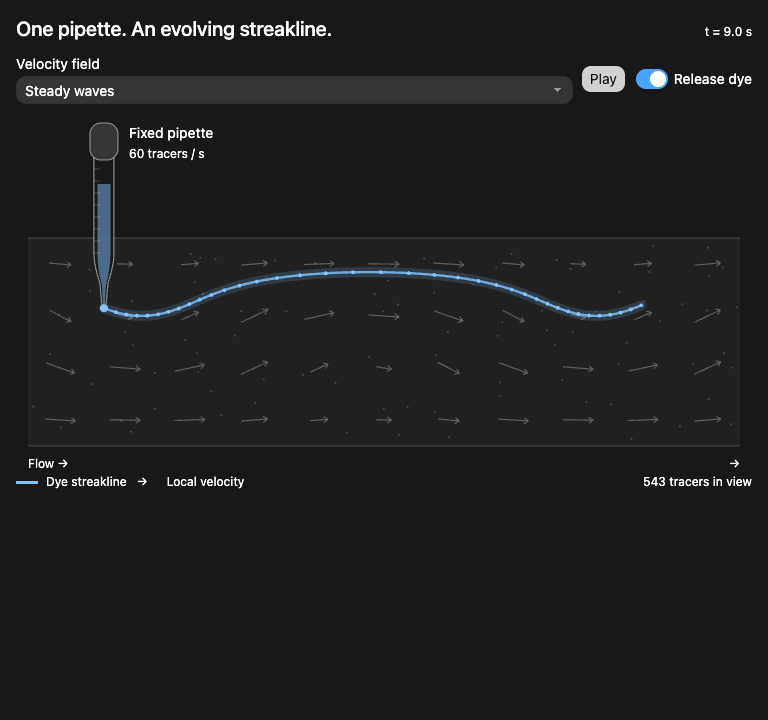
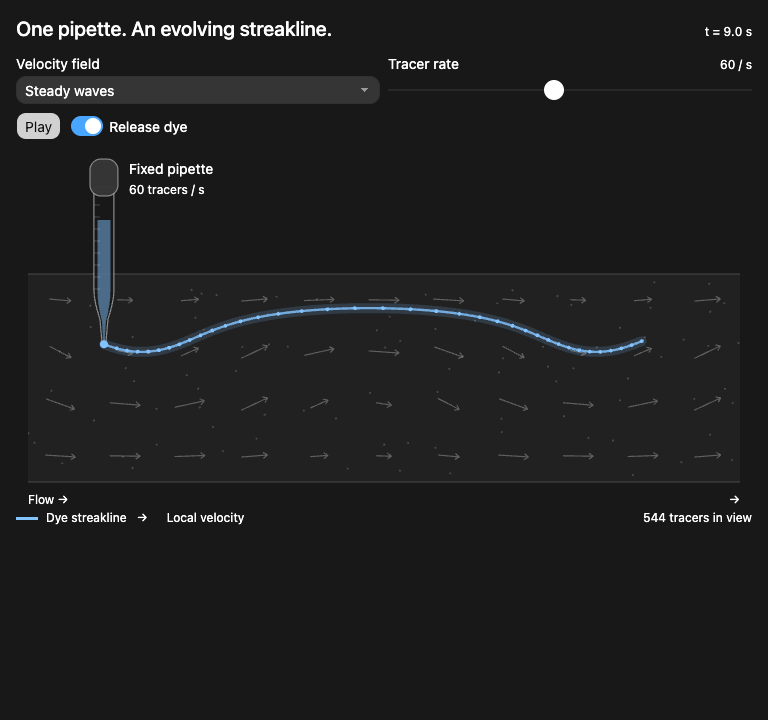
Add tracer release rate slider control

diff --git a/dist/index.html b/dist/index.html
@@ -1339,6 +1339,10 @@ html&gt;body{padding:0}&lt;/style&gt;
         &lt;option value=&quot;uniform&quot;&gt;Uniform flow&lt;/option&gt;
       &lt;/select&gt;
     &lt;/label&gt;
+    &lt;label class=&quot;form-label&quot; for=&quot;sl-rate&quot;&gt;Tracer rate
+      &lt;span class=&quot;text-small tabular-nums&quot; id=&quot;sl-rate-val&quot;&gt;60 / s&lt;/span&gt;
+      &lt;input class=&quot;form-range&quot; type=&quot;range&quot; id=&quot;sl-rate&quot; min=&quot;10&quot; max=&quot;120&quot; step=&quot;5&quot; value=&quot;60&quot;&gt;
+    &lt;/label&gt;
     &lt;div class=&quot;viz-row&quot;&gt;
       &lt;button type=&quot;button&quot; class=&quot;btn btn-primary&quot; id=&quot;sl-pause&quot;&gt;Pause&lt;/button&gt;
       &lt;label class=&quot;form-check form-switch&quot;&gt;
@@ -1349,7 +1353,7 @@ html&gt;body{padding:0}&lt;/style&gt;
   &lt;/div&gt;
   &lt;svg class=&quot;sl-scene&quot; id=&quot;sl-scene&quot; role=&quot;img&quot; aria-labelledby=&quot;sl-title sl-description&quot;&gt;
     &lt;title id=&quot;sl-title&quot;&gt;Dye released from a fixed pipette into a flowing channel&lt;/title&gt;
-    &lt;desc id=&quot;sl-description&quot;&gt;The pipette releases sixty passive tracers per simulated second. The colored streak joins their current positions, while arrows indicate the local velocity. The entire streak changes shape in the unsteady flow. The dye has no diffusion and does not affect the prescribed flow.&lt;/desc&gt;
+    &lt;desc id=&quot;sl-description&quot;&gt;The pipette releases passive tracers into the channel at an adjustable rate. The colored streak joins their current positions, while arrows indicate the local velocity. The entire streak changes shape in the unsteady flow. The dye has no diffusion and does not affect the prescribed flow.&lt;/desc&gt;
     &lt;defs&gt;
       &lt;clipPath id=&quot;sl-water-clip&quot;&gt;&lt;rect id=&quot;sl-clip-box&quot;&gt;&lt;/rect&gt;&lt;/clipPath&gt;
     &lt;/defs&gt;
@@ -1417,12 +1421,14 @@ html&gt;body{padding:0}&lt;/style&gt;
   const flow = el(&#x27;sl-flow&#x27;);
   const pause = el(&#x27;sl-pause&#x27;);
   const release = el(&#x27;sl-dye&#x27;);
+  const rate = el(&#x27;sl-rate&#x27;);
+  const rateVal = el(&#x27;sl-rate-val&#x27;);
   const reducedMotion = window.matchMedia(&#x27;(prefers-reduced-motion: reduce)&#x27;);
-  const state = { mode: &#x27;unsteady&#x27;, paused: reducedMotion.matches, injecting: true };
+  const state = { mode: &#x27;unsteady&#x27;, paused: reducedMotion.matches, injecting: true, rate: 60 };
   const L = 12, H = 4, U = 1.25, B = .96, K = .82, OMEGA = 1.1;
   const SOURCE = { x: 1.28, y: 2.65 };
   const DT = 1 / 120;
-  let ticks = 0, particles = [], motes = [], run = 0, released = 0;
+  let ticks = 0, particles = [], motes = [], run = 0, released = 0, injectAccumulator = 0.5;
   let width = 736, height = 370, top = 134, bottom = 342;
   let last = null, accumulated = 0, uiClock = -1;
   const settingsFrom = value =&gt; value?.modelContent?.streakline || value?.streakline;
@@ -1432,11 +1438,13 @@ html&gt;body{padding:0}&lt;/style&gt;
     if ([&#x27;unsteady&#x27;, &#x27;steady&#x27;, &#x27;uniform&#x27;].includes(saved.mode)) state.mode = saved.mode;
     if (typeof saved.paused === &#x27;boolean&#x27;) state.paused = saved.paused;
     if (typeof saved.injecting === &#x27;boolean&#x27;) state.injecting = saved.injecting;
+    const r = Number(saved.rate ?? saved.releaseRate);
+    if (Number.isFinite(r) &amp;&amp; r &gt;= 10 &amp;&amp; r &lt;= 120) state.rate = r;
   }
   applySettings(window.openai?.widgetState);
   function save() {
     if (window.openai?.setWidgetState) {
-      window.openai.setWidgetState({ modelContent: { streakline: { ...state, releaseRate: 60 } }, privateContent: null }).catch(() =&gt; {});
+      window.openai.setWidgetState({ modelContent: { streakline: { ...state, releaseRate: state.rate } }, privateContent: null }).catch(() =&gt; {});
     }
   }
   function velocity(x, y, t) {
@@ -1459,6 +1467,7 @@ html&gt;body{padding:0}&lt;/style&gt;
   }
   function initialize() {
     ticks = 0; particles = []; accumulated = 0; last = null; uiClock = -1; run = 0; released = 0;
+    injectAccumulator = 1 - state.rate * DT;
     motes = Array.from({ length: 90 }, (_, i) =&gt; ({
       x: ((i * .61803398875) % 1) * L,
       y: .12 + ((i * .41421356237 + .21) % 1) * (H - .24)
@@ -1466,9 +1475,12 @@ html&gt;body{padding:0}&lt;/style&gt;
   }
   function step() {
     const t = ticks * DT;
-    // One new tracer every two physics steps: exactly 60 per simulated second.
-    if (state.injecting &amp;&amp; ticks % 2 === 0) {
-      particles.push({ ...SOURCE, born: t, run, id: released++ });
+    if (state.injecting) {
+      injectAccumulator += state.rate * DT;
+      while (injectAccumulator &gt;= 1) {
+        injectAccumulator -= 1;
+        particles.push({ ...SOURCE, born: t, run, id: released++ });
+      }
     }
     for (const p of particles) advect(p, t, DT);
     particles = particles.filter(p =&gt; p.x &lt;= L + .2 &amp;&amp; p.y &gt;= 0 &amp;&amp; p.y &lt;= H);
@@ -1542,10 +1554,20 @@ html&gt;body{padding:0}&lt;/style&gt;
     pause.textContent = state.paused ? &#x27;Play&#x27; : &#x27;Pause&#x27;;
     pause.setAttribute(&#x27;aria-label&#x27;, state.paused ? &#x27;Play flow simulation&#x27; : &#x27;Pause flow simulation&#x27;);
     release.checked = state.injecting;
-    el(&#x27;sl-rate-label&#x27;).textContent = state.injecting ? &#x27;60 tracers / s&#x27; : &#x27;Dye off&#x27;;
+    rate.value = state.rate;
+    rateVal.textContent = `${state.rate} / s`;
+    el(&#x27;sl-rate-label&#x27;).textContent = state.injecting ? `${state.rate} tracers / s` : &#x27;Dye off&#x27;;
     el(&#x27;sl-source&#x27;).style.opacity = state.injecting ? &#x27;1&#x27; : &#x27;.3&#x27;;
   }
   const announce = text =&gt; { el(&#x27;sl-announcement&#x27;).textContent = text; };
+  rate.addEventListener(&#x27;input&#x27;, () =&gt; {
+    state.rate = Number(rate.value);
+    syncControls();
+    save();
+  });
+  rate.addEventListener(&#x27;change&#x27;, () =&gt; {
+    announce(`Tracer rate set to ${state.rate} tracers per second.`);
+  });
   pause.addEventListener(&#x27;click&#x27;, () =&gt; {
     state.paused = !state.paused; last = null; syncControls(); save();
     announce(state.paused ? `Paused at ${(ticks * DT).toFixed(1)} seconds.` : &#x27;Simulation playing.&#x27;);

diff --git a/outputs/streakline-demo.html b/outputs/streakline-demo.html
@@ -1339,6 +1339,10 @@ html&gt;body{padding:0}&lt;/style&gt;
         &lt;option value=&quot;uniform&quot;&gt;Uniform flow&lt;/option&gt;
       &lt;/select&gt;
     &lt;/label&gt;
+    &lt;label class=&quot;form-label&quot; for=&quot;sl-rate&quot;&gt;Tracer rate
+      &lt;span class=&quot;text-small tabular-nums&quot; id=&quot;sl-rate-val&quot;&gt;60 / s&lt;/span&gt;
+      &lt;input class=&quot;form-range&quot; type=&quot;range&quot; id=&quot;sl-rate&quot; min=&quot;10&quot; max=&quot;120&quot; step=&quot;5&quot; value=&quot;60&quot;&gt;
+    &lt;/label&gt;
     &lt;div class=&quot;viz-row&quot;&gt;
       &lt;button type=&quot;button&quot; class=&quot;btn btn-primary&quot; id=&quot;sl-pause&quot;&gt;Pause&lt;/button&gt;
       &lt;label class=&quot;form-check form-switch&quot;&gt;
@@ -1349,7 +1353,7 @@ html&gt;body{padding:0}&lt;/style&gt;
   &lt;/div&gt;
   &lt;svg class=&quot;sl-scene&quot; id=&quot;sl-scene&quot; role=&quot;img&quot; aria-labelledby=&quot;sl-title sl-description&quot;&gt;
     &lt;title id=&quot;sl-title&quot;&gt;Dye released from a fixed pipette into a flowing channel&lt;/title&gt;
-    &lt;desc id=&quot;sl-description&quot;&gt;The pipette releases sixty passive tracers per simulated second. The colored streak joins their current positions, while arrows indicate the local velocity. The entire streak changes shape in the unsteady flow. The dye has no diffusion and does not affect the prescribed flow.&lt;/desc&gt;
+    &lt;desc id=&quot;sl-description&quot;&gt;The pipette releases passive tracers into the channel at an adjustable rate. The colored streak joins their current positions, while arrows indicate the local velocity. The entire streak changes shape in the unsteady flow. The dye has no diffusion and does not affect the prescribed flow.&lt;/desc&gt;
     &lt;defs&gt;
       &lt;clipPath id=&quot;sl-water-clip&quot;&gt;&lt;rect id=&quot;sl-clip-box&quot;&gt;&lt;/rect&gt;&lt;/clipPath&gt;
     &lt;/defs&gt;
@@ -1417,12 +1421,14 @@ html&gt;body{padding:0}&lt;/style&gt;
   const flow = el(&#x27;sl-flow&#x27;);
   const pause = el(&#x27;sl-pause&#x27;);
   const release = el(&#x27;sl-dye&#x27;);
+  const rate = el(&#x27;sl-rate&#x27;);
+  const rateVal = el(&#x27;sl-rate-val&#x27;);
   const reducedMotion = window.matchMedia(&#x27;(prefers-reduced-motion: reduce)&#x27;);
-  const state = { mode: &#x27;unsteady&#x27;, paused: reducedMotion.matches, injecting: true };
+  const state = { mode: &#x27;unsteady&#x27;, paused: reducedMotion.matches, injecting: true, rate: 60 };
   const L = 12, H = 4, U = 1.25, B = .96, K = .82, OMEGA = 1.1;
   const SOURCE = { x: 1.28, y: 2.65 };
   const DT = 1 / 120;
-  let ticks = 0, particles = [], motes = [], run = 0, released = 0;
+  let ticks = 0, particles = [], motes = [], run = 0, released = 0, injectAccumulator = 0.5;
   let width = 736, height = 370, top = 134, bottom = 342;
   let last = null, accumulated = 0, uiClock = -1;
   const settingsFrom = value =&gt; value?.modelContent?.streakline || value?.streakline;
@@ -1432,11 +1438,13 @@ html&gt;body{padding:0}&lt;/style&gt;
     if ([&#x27;unsteady&#x27;, &#x27;steady&#x27;, &#x27;uniform&#x27;].includes(saved.mode)) state.mode = saved.mode;
     if (typeof saved.paused === &#x27;boolean&#x27;) state.paused = saved.paused;
     if (typeof saved.injecting === &#x27;boolean&#x27;) state.injecting = saved.injecting;
+    const r = Number(saved.rate ?? saved.releaseRate);
+    if (Number.isFinite(r) &amp;&amp; r &gt;= 10 &amp;&amp; r &lt;= 120) state.rate = r;
   }
   applySettings(window.openai?.widgetState);
   function save() {
     if (window.openai?.setWidgetState) {
-      window.openai.setWidgetState({ modelContent: { streakline: { ...state, releaseRate: 60 } }, privateContent: null }).catch(() =&gt; {});
+      window.openai.setWidgetState({ modelContent: { streakline: { ...state, releaseRate: state.rate } }, privateContent: null }).catch(() =&gt; {});
     }
   }
   function velocity(x, y, t) {
@@ -1459,6 +1467,7 @@ html&gt;body{padding:0}&lt;/style&gt;
   }
   function initialize() {
     ticks = 0; particles = []; accumulated = 0; last = null; uiClock = -1; run = 0; released = 0;
+    injectAccumulator = 1 - state.rate * DT;
     motes = Array.from({ length: 90 }, (_, i) =&gt; ({
       x: ((i * .61803398875) % 1) * L,
       y: .12 + ((i * .41421356237 + .21) % 1) * (H - .24)
@@ -1466,9 +1475,12 @@ html&gt;body{padding:0}&lt;/style&gt;
   }
   function step() {
     const t = ticks * DT;
-    // One new tracer every two physics steps: exactly 60 per simulated second.
-    if (state.injecting &amp;&amp; ticks % 2 === 0) {
-      particles.push({ ...SOURCE, born: t, run, id: released++ });
+    if (state.injecting) {
+      injectAccumulator += state.rate * DT;
+      while (injectAccumulator &gt;= 1) {
+        injectAccumulator -= 1;
+        particles.push({ ...SOURCE, born: t, run, id: released++ });
+      }
     }
     for (const p of particles) advect(p, t, DT);
     particles = particles.filter(p =&gt; p.x &lt;= L + .2 &amp;&amp; p.y &gt;= 0 &amp;&amp; p.y &lt;= H);
@@ -1542,10 +1554,20 @@ html&gt;body{padding:0}&lt;/style&gt;
     pause.textContent = state.paused ? &#x27;Play&#x27; : &#x27;Pause&#x27;;
     pause.setAttribute(&#x27;aria-label&#x27;, state.paused ? &#x27;Play flow simulation&#x27; : &#x27;Pause flow simulation&#x27;);
     release.checked = state.injecting;
-    el(&#x27;sl-rate-label&#x27;).textContent = state.injecting ? &#x27;60 tracers / s&#x27; : &#x27;Dye off&#x27;;
+    rate.value = state.rate;
+    rateVal.textContent = `${state.rate} / s`;
+    el(&#x27;sl-rate-label&#x27;).textContent = state.injecting ? `${state.rate} tracers / s` : &#x27;Dye off&#x27;;
     el(&#x27;sl-source&#x27;).style.opacity = state.injecting ? &#x27;1&#x27; : &#x27;.3&#x27;;
   }
   const announce = text =&gt; { el(&#x27;sl-announcement&#x27;).textContent = text; };
+  rate.addEventListener(&#x27;input&#x27;, () =&gt; {
+    state.rate = Number(rate.value);
+    syncControls();
+    save();
+  });
+  rate.addEventListener(&#x27;change&#x27;, () =&gt; {
+    announce(`Tracer rate set to ${state.rate} tracers per second.`);
+  });
   pause.addEventListener(&#x27;click&#x27;, () =&gt; {
     state.paused = !state.paused; last = null; syncControls(); save();
     announce(state.paused ? `Paused at ${(ticks * DT).toFixed(1)} seconds.` : &#x27;Simulation playing.&#x27;);

diff --git a/work/streakline-preview.html b/work/streakline-preview.html
@@ -1339,6 +1339,10 @@ html&gt;body{padding:0}&lt;/style&gt;
         &lt;option value=&quot;uniform&quot;&gt;Uniform flow&lt;/option&gt;
       &lt;/select&gt;
     &lt;/label&gt;
+    &lt;label class=&quot;form-label&quot; for=&quot;sl-rate&quot;&gt;Tracer rate
+      &lt;span class=&quot;text-small tabular-nums&quot; id=&quot;sl-rate-val&quot;&gt;60 / s&lt;/span&gt;
+      &lt;input class=&quot;form-range&quot; type=&quot;range&quot; id=&quot;sl-rate&quot; min=&quot;10&quot; max=&quot;120&quot; step=&quot;5&quot; value=&quot;60&quot;&gt;
+    &lt;/label&gt;
     &lt;div class=&quot;viz-row&quot;&gt;
       &lt;button type=&quot;button&quot; class=&quot;btn btn-primary&quot; id=&quot;sl-pause&quot;&gt;Pause&lt;/button&gt;
       &lt;label class=&quot;form-check form-switch&quot;&gt;
@@ -1349,7 +1353,7 @@ html&gt;body{padding:0}&lt;/style&gt;
   &lt;/div&gt;
   &lt;svg class=&quot;sl-scene&quot; id=&quot;sl-scene&quot; role=&quot;img&quot; aria-labelledby=&quot;sl-title sl-description&quot;&gt;
     &lt;title id=&quot;sl-title&quot;&gt;Dye released from a fixed pipette into a flowing channel&lt;/title&gt;
-    &lt;desc id=&quot;sl-description&quot;&gt;The pipette releases sixty passive tracers per simulated second. The colored streak joins their current positions, while arrows indicate the local velocity. The entire streak changes shape in the unsteady flow. The dye has no diffusion and does not affect the prescribed flow.&lt;/desc&gt;
+    &lt;desc id=&quot;sl-description&quot;&gt;The pipette releases passive tracers into the channel at an adjustable rate. The colored streak joins their current positions, while arrows indicate the local velocity. The entire streak changes shape in the unsteady flow. The dye has no diffusion and does not affect the prescribed flow.&lt;/desc&gt;
     &lt;defs&gt;
       &lt;clipPath id=&quot;sl-water-clip&quot;&gt;&lt;rect id=&quot;sl-clip-box&quot;&gt;&lt;/rect&gt;&lt;/clipPath&gt;
     &lt;/defs&gt;
@@ -1417,12 +1421,14 @@ html&gt;body{padding:0}&lt;/style&gt;
   const flow = el(&#x27;sl-flow&#x27;);
   const pause = el(&#x27;sl-pause&#x27;);
   const release = el(&#x27;sl-dye&#x27;);
+  const rate = el(&#x27;sl-rate&#x27;);
+  const rateVal = el(&#x27;sl-rate-val&#x27;);
   const reducedMotion = window.matchMedia(&#x27;(prefers-reduced-motion: reduce)&#x27;);
-  const state = { mode: &#x27;unsteady&#x27;, paused: reducedMotion.matches, injecting: true };
+  const state = { mode: &#x27;unsteady&#x27;, paused: reducedMotion.matches, injecting: true, rate: 60 };
   const L = 12, H = 4, U = 1.25, B = .96, K = .82, OMEGA = 1.1;
   const SOURCE = { x: 1.28, y: 2.65 };
   const DT = 1 / 120;
-  let ticks = 0, particles = [], motes = [], run = 0, released = 0;
+  let ticks = 0, particles = [], motes = [], run = 0, released = 0, injectAccumulator = 0.5;
   let width = 736, height = 370, top = 134, bottom = 342;
   let last = null, accumulated = 0, uiClock = -1;
   const settingsFrom = value =&gt; value?.modelContent?.streakline || value?.streakline;
@@ -1432,11 +1438,13 @@ html&gt;body{padding:0}&lt;/style&gt;
     if ([&#x27;unsteady&#x27;, &#x27;steady&#x27;, &#x27;uniform&#x27;].includes(saved.mode)) state.mode = saved.mode;
     if (typeof saved.paused === &#x27;boolean&#x27;) state.paused = saved.paused;
     if (typeof saved.injecting === &#x27;boolean&#x27;) state.injecting = saved.injecting;
+    const r = Number(saved.rate ?? saved.releaseRate);
+    if (Number.isFinite(r) &amp;&amp; r &gt;= 10 &amp;&amp; r &lt;= 120) state.rate = r;
   }
   applySettings(window.openai?.widgetState);
   function save() {
     if (window.openai?.setWidgetState) {
-      window.openai.setWidgetState({ modelContent: { streakline: { ...state, releaseRate: 60 } }, privateContent: null }).catch(() =&gt; {});
+      window.openai.setWidgetState({ modelContent: { streakline: { ...state, releaseRate: state.rate } }, privateContent: null }).catch(() =&gt; {});
     }
   }
   function velocity(x, y, t) {
@@ -1459,6 +1467,7 @@ html&gt;body{padding:0}&lt;/style&gt;
   }
   function initialize() {
     ticks = 0; particles = []; accumulated = 0; last = null; uiClock = -1; run = 0; released = 0;
+    injectAccumulator = 1 - state.rate * DT;
     motes = Array.from({ length: 90 }, (_, i) =&gt; ({
       x: ((i * .61803398875) % 1) * L,
       y: .12 + ((i * .41421356237 + .21) % 1) * (H - .24)
@@ -1466,9 +1475,12 @@ html&gt;body{padding:0}&lt;/style&gt;
   }
   function step() {
     const t = ticks * DT;
-    // One new tracer every two physics steps: exactly 60 per simulated second.
-    if (state.injecting &amp;&amp; ticks % 2 === 0) {
-      particles.push({ ...SOURCE, born: t, run, id: released++ });
+    if (state.injecting) {
+      injectAccumulator += state.rate * DT;
+      while (injectAccumulator &gt;= 1) {
+        injectAccumulator -= 1;
+        particles.push({ ...SOURCE, born: t, run, id: released++ });
+      }
     }
     for (const p of particles) advect(p, t, DT);
     particles = particles.filter(p =&gt; p.x &lt;= L + .2 &amp;&amp; p.y &gt;= 0 &amp;&amp; p.y &lt;= H);
@@ -1542,10 +1554,20 @@ html&gt;body{padding:0}&lt;/style&gt;
     pause.textContent = state.paused ? &#x27;Play&#x27; : &#x27;Pause&#x27;;
     pause.setAttribute(&#x27;aria-label&#x27;, state.paused ? &#x27;Play flow simulation&#x27; : &#x27;Pause flow simulation&#x27;);
     release.checked = state.injecting;
-    el(&#x27;sl-rate-label&#x27;).textContent = state.injecting ? &#x27;60 tracers / s&#x27; : &#x27;Dye off&#x27;;
+    rate.value = state.rate;
+    rateVal.textContent = `${state.rate} / s`;
+    el(&#x27;sl-rate-label&#x27;).textContent = state.injecting ? `${state.rate} tracers / s` : &#x27;Dye off&#x27;;
     el(&#x27;sl-source&#x27;).style.opacity = state.injecting ? &#x27;1&#x27; : &#x27;.3&#x27;;
   }
   const announce = text =&gt; { el(&#x27;sl-announcement&#x27;).textContent = text; };
+  rate.addEventListener(&#x27;input&#x27;, () =&gt; {
+    state.rate = Number(rate.value);
+    syncControls();
+    save();
+  });
+  rate.addEventListener(&#x27;change&#x27;, () =&gt; {
+    announce(`Tracer rate set to ${state.rate} tracers per second.`);
+  });
   pause.addEventListener(&#x27;click&#x27;, () =&gt; {
     state.paused = !state.paused; last = null; syncControls(); save();
     announce(state.paused ? `Paused at ${(ticks * DT).toFixed(1)} seconds.` : &#x27;Simulation playing.&#x27;);
